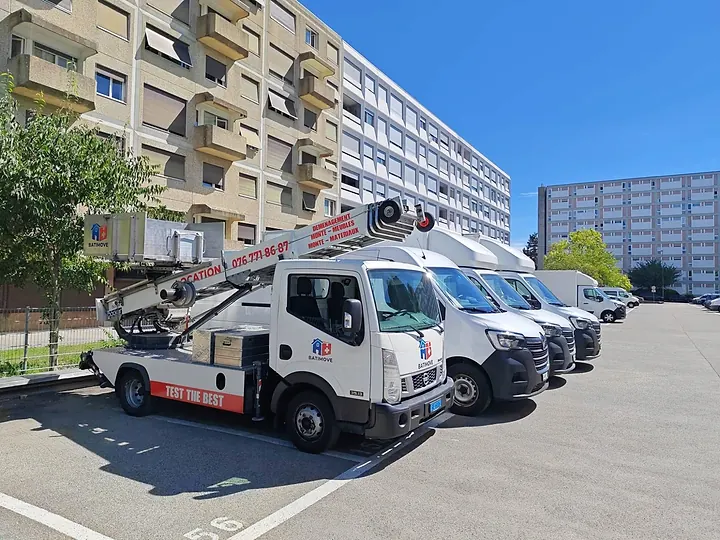
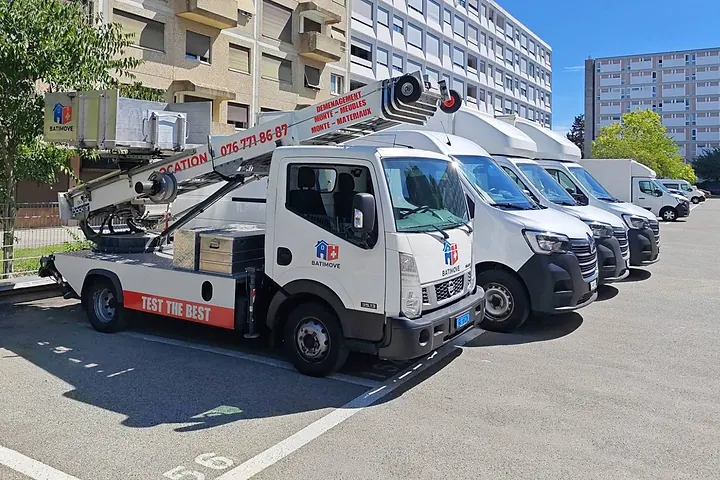
design(hero): titulo com lugar e preco, estrelas Google e um botao principal
- Titulo: "Demenagement a Geneve, Vaud, Fribourg et Valais. Prix ferme,
  sans surprise." (FR/EN, e o h1 do prerender).
- Estrelas Google (4,7 - 12 avis), sem texto de avaliacao.
- Fatos numa linha: devis sous 30 min, prix ferme, RC Pro CHF 5M, 7j/7.
- Botao principal "Obtenir mon devis en 30 min" com o telefone ao lado;
  os 5 servicos viram atalhos compactos.
- Texto de apoio sem "toute la Suisse"; cita o monte-meubles proprio.
- Foto recortada no monte-meubles (3:2) com o selo "Notre propre
  monte-meubles"; sai o bloco 100% / CHF 5M / 4.7.
- "Decouvrir nos prestations" leva a secao de servicos da home, nao
  mais a antiga pagina /services.

diff --git a/pages/Home.tsx b/pages/Home.tsx
@@ -360,20 +360,17 @@ const HOME_COMPLEMENTAIRES: Record<Lang, HomeComplementaire[]> = {
 
 const COPY = defineCopy(
   {
-    heroTitle1: "L'Art du",
-    heroTitle2: 'Déménagement !',
-    heroTitleSr: ' : Entreprise de déménagement professionnel à Genève, Lausanne et Vaud',
+    heroTitle1: 'Déménagement à Genève, Vaud, Fribourg et Valais.',
+    heroTitle2: 'Prix ferme, sans surprise.',
+    heroRating: (value: number, count: number) => `${String(value).replace('.', ',')} · ${count} avis Google`,
+    heroRatingLabel: (value: number, count: number) => `Note Google : ${String(value).replace('.', ',')} sur 5, ${count} avis`,
     heroLead:
-      "Services professionnels de déménagement, emballage de haute précision et garde-meubles sécurisé à Genève, Lausanne et dans toute la Suisse. Assurance RC Pro jusqu'à 5M CHF incluse.",
-    heroProjectTitle: 'Quel est votre projet ?',
-    heroProjectHint: 'Devis gratuit, réponse sous 30 min (8h-19h).',
-    heroFixedPrice: 'Prix ferme : aucun surcoût une fois le devis accepté',
-    heroReachable: 'Joignable 7j/7',
+      "Appartement, maison ou bureau : nous emballons, transportons et livrons à la date convenue, avec notre propre monte-meubles si l'accès l'exige.",
+    heroTrust: ['Devis sous 30 min (8h-19h)', 'Prix ferme', 'RC Pro CHF 5M', 'Joignable 7j/7'],
+    heroCta: 'Obtenir mon devis en 30 min',
     freeCall: 'appel gratuit',
-    calcVolume: 'Calculer mon volume',
-    statFixedPrice: 'Prix fixe garanti',
-    statInsurance: 'Assurance RC incluse',
-    statReviews: 'Avis clients vérifiés',
+    heroShortcuts: 'Ou choisissez directement :',
+    heroPhotoBadge: 'Notre propre monte-meubles',
     heroImgAlt: 'Monte-meubles et camions Batimove garés devant des immeubles',
 
     engagementsTitle: 'Ce que nous réglons pour vous',
@@ -448,20 +445,17 @@ const COPY = defineCopy(
     faqWrite: 'écrivez-nous',
   },
   {
-    heroTitle1: 'The art of',
-    heroTitle2: 'moving!',
-    heroTitleSr: ': professional removal company in Geneva, Lausanne and Vaud',
+    heroTitle1: 'Removals in Geneva, Vaud, Fribourg and Valais.',
+    heroTitle2: 'Fixed price, no surprises.',
+    heroRating: (value: number, count: number) => `${value} · ${count} Google reviews`,
+    heroRatingLabel: (value: number, count: number) => `Google rating: ${value} out of 5, ${count} reviews`,
     heroLead:
-      'Professional removal services, high-precision packing and secure storage in Geneva, Lausanne and throughout Switzerland. Professional liability insurance up to CHF 5M included.',
-    heroProjectTitle: 'What can we help you with?',
-    heroProjectHint: 'Free quote, reply within 30 min (8am-7pm).',
-    heroFixedPrice: 'Fixed price: no extra charges once the quote is accepted',
-    heroReachable: 'Available 7 days a week',
+      'Flat, house or office: we pack, transport and deliver on the agreed date, with our own furniture lift if the access requires it.',
+    heroTrust: ['Quote within 30 min (8am-7pm)', 'Fixed price', 'CHF 5M liability cover', 'Available 7 days a week'],
+    heroCta: 'Get my quote in 30 min',
     freeCall: 'free call',
-    calcVolume: 'Calculate my volume',
-    statFixedPrice: 'Guaranteed fixed price',
-    statInsurance: 'Liability insurance included',
-    statReviews: 'Verified customer reviews',
+    heroShortcuts: 'Or go straight to:',
+    heroPhotoBadge: 'Our own furniture lift',
     heroImgAlt: 'Batimove furniture lift and vans parked in front of apartment buildings',
 
     engagementsTitle: 'What we take care of for you',
@@ -537,6 +531,34 @@ const COPY = defineCopy(
   }
 );
 
+/** Nota Google com estrelas (preenchimento parcial na última), sem texto de avaliação. */
+const GoogleRating: React.FC<{ value: number; text: string; label: string }> = ({ value, text, label }) => {
+  const stars = (cls: string) => (
+    <span className={`flex w-max gap-0.5 ${cls}`}>
+      {[0, 1, 2, 3, 4].map((i) => (
+        <Star key={i} className="h-4 w-4 shrink-0 fill-current" strokeWidth={0} />
+      ))}
+    </span>
+  );
+  return (
+    <p className="inline-flex w-fit items-center gap-2.5 rounded-lg border border-glacier-line bg-white px-3 py-2 shadow-rest" aria-label={label}>
+      <svg className="h-4 w-4 shrink-0" viewBox="0 0 24 24" aria-hidden="true">
+        <path fill="#4285F4" d="M23.745 12.27c0-.7-.06-1.4-.19-2.07H12v4.51h6.6c-.29 1.52-1.14 2.82-2.4 3.68v3.05h3.88c2.27-2.09 3.665-5.17 3.665-9.17Z" />
+        <path fill="#34A853" d="M12 24c3.24 0 5.95-1.08 7.93-2.91l-3.88-3.05c-1.08.72-2.45 1.16-4.05 1.16-3.12 0-5.77-2.1-6.72-4.93H1.25v3.15C3.27 21.37 7.36 24 12 24Z" />
+        <path fill="#FBBC05" d="M5.28 14.27c-.25-.72-.38-1.49-.38-2.27s.13-1.55.38-2.27V6.58H1.25C.45 8.18 0 9.99 0 12s.45 3.82 1.25 5.42l4.03-3.15Z" />
+        <path fill="#EA4335" d="M12 4.75c1.77 0 3.35.61 4.6 1.8l3.42-3.42C17.95 1.19 15.24 0 12 0 7.36 0 3.27 2.63 1.25 6.58l4.03 3.15c.95-2.83 3.6-4.98 6.72-4.98Z" />
+      </svg>
+      <span aria-hidden="true" className="relative inline-flex">
+        {stars('text-slate-300')}
+        <span className="absolute inset-y-0 left-0 overflow-hidden" style={{ width: `${(value / 5) * 100}%` }}>
+          {stars('text-amber-400')}
+        </span>
+      </span>
+      <span aria-hidden="true" className="text-sm font-semibold tabular-nums text-[#0B1E33]">{text}</span>
+    </p>
+  );
+};
+
 export const Home: React.FC = () => {
   const { lang, lp } = useLang();
   const c = COPY[lang];
@@ -559,125 +581,95 @@ export const Home: React.FC = () => {
       />
 
       {/* =========================================================================
-          SECTION 1: HERO SECTION ("L'Art du Déménagement !")
-          Cabe em qualquer tela: tipografia fluida por largura, compactação por
-          altura em laptops baixos (lg + max-height 820px) e imagem limitada pela
-          coluna e pela altura útil da janela, sempre colada na faixa navy.
+          SECTION 1: HERO
+          Em 3 segundos: nota Google, o que fazemos e onde, preço ferme, fatos
+          verificáveis, uma ação principal e o telefone. Compacta em laptops baixos.
           ========================================================================= */}
       <section className="relative overflow-hidden bg-glacier pt-4 sm:pt-6 lg:pt-8 [@media(min-width:1024px)_and_(max-height:940px)]:pt-4 [@media(min-width:1024px)_and_(max-height:760px)]:!pt-2">
         <div className="relative z-10 mx-auto max-w-7xl px-4 sm:px-6 lg:px-8">
-          <div className="grid grid-cols-1 items-end gap-6 sm:gap-8 lg:grid-cols-12 lg:gap-6 xl:gap-10">
+          <div className="grid grid-cols-1 items-center gap-6 sm:gap-8 lg:grid-cols-12 lg:gap-8 xl:gap-12">
 
-            {/* Coluna de texto */}
-            <div className="flex min-w-0 flex-col justify-center py-4 sm:py-6 lg:col-span-7 lg:py-10 xl:col-span-6 [@media(min-width:1024px)_and_(max-height:940px)]:py-5 [@media(min-width:1024px)_and_(max-height:760px)]:!py-4">
-              <h1 className="mb-4 font-display text-3xl font-medium leading-[1.05] tracking-tight text-[#0B1E33] min-[400px]:text-4xl sm:mb-5 sm:text-5xl xl:text-6xl [@media(max-height:500px)]:!text-4xl [@media(min-width:1024px)_and_(max-height:940px)]:mb-3 [@media(min-width:1024px)_and_(max-height:940px)]:text-5xl [@media(min-width:1024px)_and_(max-height:760px)]:!mb-2">
-                {c.heroTitle1} <br />
-                <span className="whitespace-nowrap text-[#0284c7]">{c.heroTitle2}</span>
-                <span className="sr-only">{c.heroTitleSr}</span>
+            {/* Coluna de texto: prova (estrelas Google), promessa com lugar e preço,
+                fatos em uma linha, uma ação principal e atalhos por serviço. */}
+            <div className="flex min-w-0 flex-col justify-center py-6 lg:col-span-7 lg:py-12 xl:col-span-6 [@media(min-width:1024px)_and_(max-height:860px)]:py-6">
+              <GoogleRating
+                value={GOOGLE_RATING.value}
+                text={c.heroRating(GOOGLE_RATING.value, GOOGLE_RATING.count)}
+                label={c.heroRatingLabel(GOOGLE_RATING.value, GOOGLE_RATING.count)}
+              />
+
+              <h1 className="mt-5 font-display text-3xl font-medium leading-[1.1] tracking-tight text-[#0B1E33] text-balance sm:text-4xl xl:text-5xl [@media(min-width:1024px)_and_(max-height:860px)]:mt-4 [@media(min-width:1024px)_and_(max-height:860px)]:text-4xl">
+                {c.heroTitle1}{' '}
+                <span className="text-[#0284c7]">{c.heroTitle2}</span>
               </h1>
 
-              <p className="mb-6 max-w-xl text-lg font-normal leading-relaxed text-slate-600 xl:text-xl [@media(min-width:1024px)_and_(max-height:940px)]:mb-4 [@media(min-width:1024px)_and_(max-height:940px)]:text-lg [@media(min-width:1024px)_and_(max-height:760px)]:!mb-3 [@media(min-width:1024px)_and_(max-height:940px)]:leading-normal">
+              <p className="mt-5 max-w-xl text-lg leading-relaxed text-slate-600 xl:text-xl [@media(min-width:1024px)_and_(max-height:860px)]:mt-4 [@media(min-width:1024px)_and_(max-height:860px)]:text-lg">
                 {c.heroLead}
               </p>
 
-              {/* Seletor de serviço: cada opção é um devis gratuito já direcionado */}
-              <div className="max-w-xl">
-                <h2 id="hero-projet" className="font-display text-lg font-semibold tracking-tight text-[#0B1E33]">
-                  {c.heroProjectTitle}
-                </h2>
-                <p className="mb-4 mt-1 text-sm text-slate-600 [@media(min-width:1024px)_and_(max-height:940px)]:mb-3">
-                  {c.heroProjectHint}
-                </p>
-                <ul
-                  aria-labelledby="hero-projet"
-                  className="overflow-hidden rounded-xl border border-slate-200 bg-white shadow-rest"
+              {/* Fatos verificáveis, numa linha */}
+              <ul className="mt-6 flex flex-wrap gap-x-5 gap-y-2 text-base font-medium text-[#0B1E33]">
+                {c.heroTrust.map((t) => (
+                  <li key={t} className="flex items-center gap-1.5">
+                    <Check className="h-4 w-4 shrink-0 text-[#0369A1]" strokeWidth={2.5} aria-hidden="true" />
+                    {t}
+                  </li>
+                ))}
+              </ul>
+
+              {/* Ação principal + telefone */}
+              <div className="mt-8 flex flex-col items-start gap-4 sm:flex-row sm:items-center sm:gap-6 [@media(min-width:1024px)_and_(max-height:860px)]:mt-6">
+                <Link to={lp('/quote')} className={buttonClass('primary', 'lg')}>
+                  {c.heroCta}
+                  <ChevronRight className="h-5 w-5" aria-hidden="true" />
+                </Link>
+                <a
+                  href="tel:0800825925"
+                  className="inline-flex items-center gap-2 py-2 text-lg font-semibold text-[#0B1E33] transition-colors duration-150 hover:text-[#0369A1]"
                 >
-                  {QUOTE_SERVICES.map((s) => localizeQuoteService(s, lang)).map(({ id: type, label, hint, icon: Icon }, i) => (
-                    <li key={type} className="relative">
-                      {/* Separador recuado até o texto, como nas listas agrupadas do iOS */}
-                      {i > 0 && (
-                        <span aria-hidden="true" className="pointer-events-none absolute left-[76px] right-0 top-0 h-px bg-slate-200 sm:left-[80px]" />
-                      )}
+                  <Phone className="h-5 w-5" aria-hidden="true" />
+                  <span className="tabular-nums">0800 825 925</span>
+                  <span className="text-base font-normal text-slate-600">{c.freeCall}</span>
+                </a>
+              </div>
+
+              {/* Atalhos: cada serviço abre o devis já direcionado */}
+              <div className="mt-8 [@media(min-width:1024px)_and_(max-height:860px)]:mt-6">
+                <p id="hero-projet" className="text-sm font-semibold text-slate-600">{c.heroShortcuts}</p>
+                <ul aria-labelledby="hero-projet" className="mt-2.5 flex flex-wrap gap-2">
+                  {QUOTE_SERVICES.map((s) => localizeQuoteService(s, lang)).map(({ id: type, label, icon: Icon }) => (
+                    <li key={type}>
                       <Link
                         to={lp(`/quote?type=${type}`)}
-                        className="group flex min-h-[72px] items-center gap-4 bg-white px-4 py-3.5 transition-colors duration-150 ease-[cubic-bezier(0.16,1,0.3,1)] hover:bg-glacier focus-visible:outline focus-visible:outline-2 focus-visible:-outline-offset-2 focus-visible:outline-[#0284c7] active:bg-glacier-line sm:px-5 [@media(min-width:1024px)_and_(max-height:940px)]:min-h-[60px] [@media(min-width:1024px)_and_(max-height:940px)]:py-2.5 [@media(min-width:1024px)_and_(max-height:760px)]:!min-h-[56px] [@media(min-width:1024px)_and_(max-height:760px)]:!py-2"
+                        className="group inline-flex h-10 items-center gap-2 rounded-lg border border-glacier-line bg-white px-3.5 text-base font-semibold text-[#0B1E33] transition-colors duration-150 ease-[cubic-bezier(0.16,1,0.3,1)] hover:border-[#0B1E33] hover:bg-[#0B1E33] hover:text-white focus-visible:outline focus-visible:outline-2 focus-visible:outline-offset-2 focus-visible:outline-[#0284c7]"
                       >
-                        <span className="grid h-11 w-11 shrink-0 place-items-center rounded-lg bg-slate-100 text-[#0B1E33] transition-colors duration-150 ease-[cubic-bezier(0.16,1,0.3,1)] group-hover:bg-[#0B1E33] group-hover:text-white group-focus-visible:bg-[#0B1E33] group-focus-visible:text-white [@media(min-width:1024px)_and_(max-height:940px)]:h-10 [@media(min-width:1024px)_and_(max-height:940px)]:w-10 [@media(min-width:1024px)_and_(max-height:760px)]:!h-9 [@media(min-width:1024px)_and_(max-height:760px)]:!w-9">
-                          <Icon className="h-[22px] w-[22px]" strokeWidth={1.75} aria-hidden="true" />
-                        </span>
-                        <span className="min-w-0 flex-1">
-                          <span className="block font-display text-lg font-semibold leading-snug tracking-tight text-[#0B1E33]">{label}</span>
-                          <span className="mt-0.5 block text-sm leading-snug text-slate-500">{hint}</span>
-                        </span>
-                        <ChevronRight
-                          className="h-[18px] w-[18px] shrink-0 text-slate-300 transition-[transform,color] duration-150 ease-[cubic-bezier(0.16,1,0.3,1)] group-hover:translate-x-0.5 group-hover:text-[#0B1E33] group-focus-visible:text-[#0B1E33] motion-reduce:transition-none motion-reduce:group-hover:translate-x-0"
-                          aria-hidden="true"
-                        />
+                        <Icon className="h-[18px] w-[18px] text-[#0369A1] transition-colors duration-150 group-hover:text-white" strokeWidth={1.75} aria-hidden="true" />
+                        {label}
                       </Link>
                     </li>
                   ))}
                 </ul>
-
-                {/* Promessas confirmadas pela Batimove + caminhos alternativos */}
-                <ul className="mt-3 flex flex-wrap gap-x-5 gap-y-1.5 text-sm text-slate-600">
-                  <li className="flex items-center gap-1.5">
-                    <Check className="h-4 w-4 shrink-0 text-[#0284c7]" aria-hidden="true" />
-                    {c.heroFixedPrice}
-                  </li>
-                  <li className="flex items-center gap-1.5">
-                    <Check className="h-4 w-4 shrink-0 text-[#0284c7]" aria-hidden="true" />
-                    {c.heroReachable}
-                  </li>
-                </ul>
-                <div className="mt-5 flex flex-wrap items-center gap-x-6 gap-y-2 text-base [@media(min-width:1024px)_and_(max-height:940px)]:mt-4">
-                  <a
-                    href="tel:0800825925"
-                    className="inline-flex items-center gap-2 py-1 font-semibold text-[#0B1E33] transition-colors duration-150 hover:text-[#0369A1]"
-                  >
-                    <Phone className="h-4 w-4" aria-hidden="true" />
-                    <span className="tabular-nums">0800 825 925</span>
-                    <span className="font-normal text-slate-600">{c.freeCall}</span>
-                  </a>
-                  <Link
-                    to={lp('/calculator')}
-                    className="py-1 font-semibold text-[#0B1E33] underline decoration-slate-300 underline-offset-4 transition-colors duration-150 hover:decoration-[#0B1E33]"
-                  >
-                    {c.calcVolume}
-                  </Link>
-                </div>
-              </div>
-
-              {/* Indicadores de confiança */}
-              <div className="mt-8 grid max-w-lg grid-cols-3 gap-4 border-t border-glacier-line pt-6 [@media(min-width:1024px)_and_(max-height:940px)]:mt-6 [@media(min-width:1024px)_and_(max-height:940px)]:pt-5">
-                <div>
-                  <div className="font-display text-xl font-medium tabular-nums text-[#0B1E33] sm:text-2xl">100%</div>
-                  <div className="text-xs font-medium text-slate-600">{c.statFixedPrice}</div>
-                </div>
-                <div>
-                  <div className="font-display text-xl font-medium tabular-nums text-[#0B1E33] sm:text-2xl">CHF 5M</div>
-                  <div className="text-xs font-medium text-slate-600">{c.statInsurance}</div>
-                </div>
-                <div>
-                  <div className="font-display text-xl font-medium tabular-nums text-[#0B1E33] sm:text-2xl">{GOOGLE_RATING.value} / 5</div>
-                  <div className="text-xs font-medium text-slate-600">{c.statReviews}</div>
-                </div>
               </div>
             </div>
 
             {/* Foto real: o monte-meubles próprio e a frota. Emoldurada, com folga
                 embaixo para não encostar na faixa navy. */}
-            <div className="flex min-w-0 items-center pb-8 lg:col-span-5 lg:self-center lg:pb-0 xl:col-span-6">
+            <div className="relative min-w-0 pb-8 lg:col-span-5 lg:self-center lg:pb-0 xl:col-span-6">
               <img
                 src="/photos/batimove-flotte-monte-meubles-1280.webp"
                 srcSet="/photos/batimove-flotte-monte-meubles-720.webp 720w, /photos/batimove-flotte-monte-meubles-1280.webp 1280w"
                 sizes="(min-width: 1280px) 600px, (min-width: 1024px) 42vw, 100vw"
                 alt={c.heroImgAlt}
                 width={1280}
-                height={960}
+                height={853}
                 fetchPriority="high"
                 decoding="async"
-                className="block aspect-[4/3] h-auto w-full rounded-xl object-cover shadow-overlay"
+                className="block aspect-[3/2] h-auto w-full rounded-xl object-cover shadow-overlay"
               />
+              <p className="absolute bottom-12 left-4 inline-flex items-center gap-2 rounded-lg bg-white px-3 py-2 text-sm font-semibold text-[#0B1E33] shadow-raised lg:bottom-4">
+                <Truck className="h-4 w-4 text-[#0369A1]" aria-hidden="true" />
+                {c.heroPhotoBadge}
+              </p>
             </div>
 
           </div>
@@ -794,13 +786,15 @@ export const Home: React.FC = () => {
               </dl>
 
               <div className="mt-10 flex flex-wrap items-center gap-x-6 gap-y-3">
-                <Link
-                  to={lp('/services')}
+                {/* Leva às prestações da própria home (a antiga página /services
+                    era o formulário de leads que não é mais usado). */}
+                <a
+                  href="#services"
                   className="btn btn-lg btn-secondary"
                 >
                   {c.aboutServices}
                   <ChevronRight className="h-5 w-5" aria-hidden="true" />
-                </Link>
+                </a>
                 <Link
                   to={lp('/quote')}
                   className="inline-block py-3 text-lg font-semibold text-[#0B1E33] underline decoration-slate-300 underline-offset-4 transition-colors duration-150 hover:decoration-[#0B1E33]"
@@ -913,7 +907,7 @@ export const Home: React.FC = () => {
       {/* =========================================================================
           SECTION 5: "TOUJOURS PRÊTS À VOUS AIDER" ("WE'RE ALWAYS READY TO HELP YOU")
           ========================================================================= */}
-      <section id="services" className="py-20 lg:py-28 bg-white relative overflow-hidden">
+      <section id="services" className="relative scroll-mt-24 overflow-hidden bg-white py-20 lg:py-28">
         <div className="max-w-7xl mx-auto px-4 sm:px-6 lg:px-8">
           
           {/* Header Centered */}
